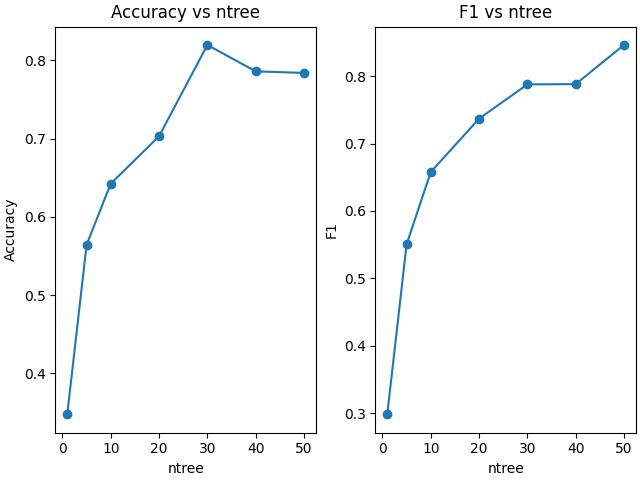
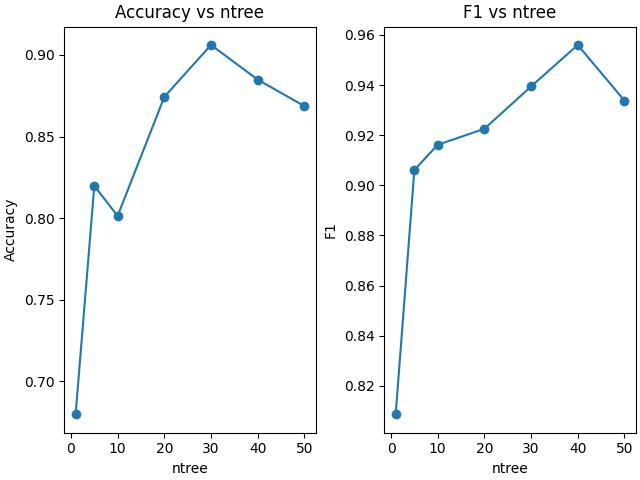
add report parkinsons random forest, nn, ensemble, fill out part of summary

diff --git a/Final_Project.tex b/Final_Project.tex
@@ -295,11 +295,11 @@ All attributes are numerical so no need for one hot encode.
 	\label{fig:forest-digits}
 \end{figure}
 
-Since the datasets has many features per instance and many instances, the Decision Trees need to be more complex to be able to capture all the pattern
+Since the datasets has many features per instance and many instances, the model needs to be more complex to be able to capture all the pattern
 in the dataset. As can see from the graph, only 1 weak Decision Tree classifier performs really badly but as the number of trees increases, the accuracy
-score increases and peaking at ntree = 30 while the F1 score peaks at ntree=50. The more trees are trained, the more patterns would be capture by the Random Forest since each tree
-is being trained on a bootstrap subset of the original train data. So by getting the majority vote from the Random Forest, it is more likely to get
-the correct prediction. Also, having only 64 numerical data is eaiser for Random Forest as at every node in the tree there would only be 2 split.
+score increases and peaking at ntree = 30 while the F1 score peaks at ntree = 40. The more trees are trained, the more patterns would be capture by
+the Random Forest since each tree is being trained on a bootstrap subset of the original train data. Having only numerical data really impact the
+speed at which the model is trained.
 
 \subsection*{Neural Network}
 \begin{enumerate}[label=(\alph*)]
@@ -482,4 +482,104 @@ since all of its are 1 and 0 values.
 
 \subsection{Parkinsons Dataset}
 
+\subsection*{Random Forest}
+\begin{itemize}
+	\item \text{Split criterion: Information Gain}
+	\item $min\_size\_split = 10$
+	\item $min\_gain = 0.002$
+	\item $max\_depth = 40$
+\end{itemize}
+
+\begin{figure}[H]
+	\includegraphics[width=\textwidth]{figures/forest_parkinsons.csv_ig.jpg}
+	\caption{Random forest on Parkinsons dataset}
+	\label{fig:forest-parkinsons}
+\end{figure}
+
+This dataset of all numerical data is quite challenging for the Random Forest algorithm. As accuracy score can be as high as 0.95 with ntree = 30
+or as low as 0.65 at ntree=20. This could be because Decision Tree is not the best at capturing the patterns in numerical data since at most there
+can only be 2 splits at a given node, so the accuracy would fluctuate a lot. However, F1 score is on average really high which means the model has
+a high precision as well as recall. So in certain applications, this model would offers more benefits.
+
+\subsection*{Neural Network}
+\begin{enumerate}[label=(\alph*)]
+	\item \begin{itemize}
+		      \item $\lambda = 0.01$
+		      \item $\alpha = 6$
+	      \end{itemize}
+
+	      \begin{table}[H]
+		      \centering
+		      \begin{tabular}{|l|l|l|}
+			      \hline
+			      Architecture     & Accuracy Score & F1 Score \\ \hline
+			      {[}22 4 2{]}     & 0.890476       & 0.943652 \\ \hline
+			      {[}22 20 2{]}    & 0.830956       & 0.943652 \\ \hline
+			      {[}22 10 10 2{]} & 0.830956       & 0.939158 \\ \hline
+			      {[}22 20 20 2{]} & 0.890476       & 0.943652 \\ \hline
+		      \end{tabular}
+	      \end{table}
+	\item \begin{itemize}
+		      \item $\lambda = 0.1$
+		      \item $\alpha = 0.1$
+	      \end{itemize}
+
+	      \begin{table}[H]
+		      \centering
+		      \begin{tabular}{|l|l|l|}
+			      \hline
+			      Architecture     & Accuracy Score & F1 Score \\ \hline
+			      {[}22 20 2{]}    & 0.943652       & 1.000000 \\ \hline
+			      {[}22 20 20 2{]} & 0.943652       & 0.890476 \\ \hline
+		      \end{tabular}
+	      \end{table}
+\end{enumerate}
+
+Here, having $\lambda$ a bit higher with a smaller starting $\alpha$ values improve the score overall very much. Even going as far as achieving 1 for F1
+score with certain architectures. More layers still means less performance due to overfitting but with enough neurons, it can be offset. Neural network
+performs very well for this dataset because it is all numerical data with a relatively large attributes number.
+
+\begin{figure}[H]
+	\includegraphics[width=\textwidth]{figures/nn_parkinsons.csv_cost.png}
+	\caption{Cost J against the number of instances introduced with $\lambda=0.1, \alpha=0.1$ and architecture [22 20 2]}
+	\label{fig:nn-parkinsons}
+\end{figure}
+
+\subsection*{Extra Credit 3}
+
+We constructed an ensemble that is consisted of a number of different Neural Network that is trained on a bootstrap dataset and get the majority vote
+as the final prediction.
+
+\begin{table}[H]
+	\centering
+	\begin{tabular}{|l|l|l|l|l|}
+		\hline
+		               & Digits Dataset & Titanic Dataset & Loan Dataset & Parkinsons Dataset \\ \hline
+		Accuracy Score & 0.903111       & 0.541433        & 0.756577     & 0.803571           \\ \hline
+		F1 Score       & 0.967350       & 0.581284        & 0.756577     & 0.803571           \\ \hline
+	\end{tabular}
+	\caption{Neural Network Ensemble on different datasets, number of estimator = 3}
+\end{table}
+
+Only the Loan dataset performance increases, marginally. This could be because we did not tune the individual neural network to fit the specific dataset.
+The current parameters might suit the Loan dataset the most and if we tune it in favor of the Titanic dataset, we might get an increases in performance
+for Titanic but that could means the other datasets would not notice an increases. Also, this seems to work better on dataset with mix attributes than
+dataset with only numerical attributes.
+
+Note: When running the evalutation, there are overflow warning that may have impact the performance on the datasets.
+
+\subsection*{Summary}
+
+\begin{table}[]
+	\centering
+	\begin{tabular}{|l|ll|ll|ll|ll|}
+		\hline
+		               & \multicolumn{2}{l|}{Digits Dataset} & \multicolumn{2}{l|}{Titanic Dataset} & \multicolumn{2}{l|}{Loan Dataset} & \multicolumn{2}{l|}{Parkinsons Dataset}                                                                                       \\ \hline
+		               & \multicolumn{1}{l|}{Accuracy}       & F1-Score                             & \multicolumn{1}{l|}{Accuracy}     & F1-Score                                & \multicolumn{1}{l|}{Accuracy} & F1-Score & \multicolumn{1}{l|}{Accuracy} & F1-Score \\ \hline
+		KNN            & \multicolumn{1}{l|}{}               &                                      & \multicolumn{1}{l|}{}             &                                         & \multicolumn{1}{l|}{}         &          & \multicolumn{1}{l|}{}         &          \\ \hline
+		Random Forest  & \multicolumn{1}{l|}{0.9}            & 0.96                                 & \multicolumn{1}{l|}{0.83}         & 0.84                                    & \multicolumn{1}{l|}{0.74}     & 0.78     & \multicolumn{1}{l|}{0.94}     & 1        \\ \hline
+		Neural Network & \multicolumn{1}{l|}{0.95}           & 0.99                                 & \multicolumn{1}{l|}{0.825}        & 0.82                                    & \multicolumn{1}{l|}{0.74}     & 0.78     & \multicolumn{1}{l|}{0.94}     & 1        \\ \hline
+		Ensemble       & \multicolumn{1}{l|}{0.9}            & 0.97                                 & \multicolumn{1}{l|}{0.54}         & 0.58                                    & \multicolumn{1}{l|}{0.76}     & 0.76     & \multicolumn{1}{l|}{0.8}      & 0.8      \\ \hline
+	\end{tabular}
+\end{table}
 \end{document}

diff --git a/random_forest_runner.py b/random_forest_runner.py
@@ -51,9 +51,9 @@ if __name__ == "__main__":
             True,
         ]
     elif "parkinsons" in dataset:
-        attr_type = [True for _ in range(22)]
+        attr_type = [False for _ in range(22)]
     elif "digit" in dataset:
-        attr_type = [True for _ in range(64)]
+        attr_type = [False for _ in range(64)]
 
     if attr_type is None:
         print("Invalid dataset")
